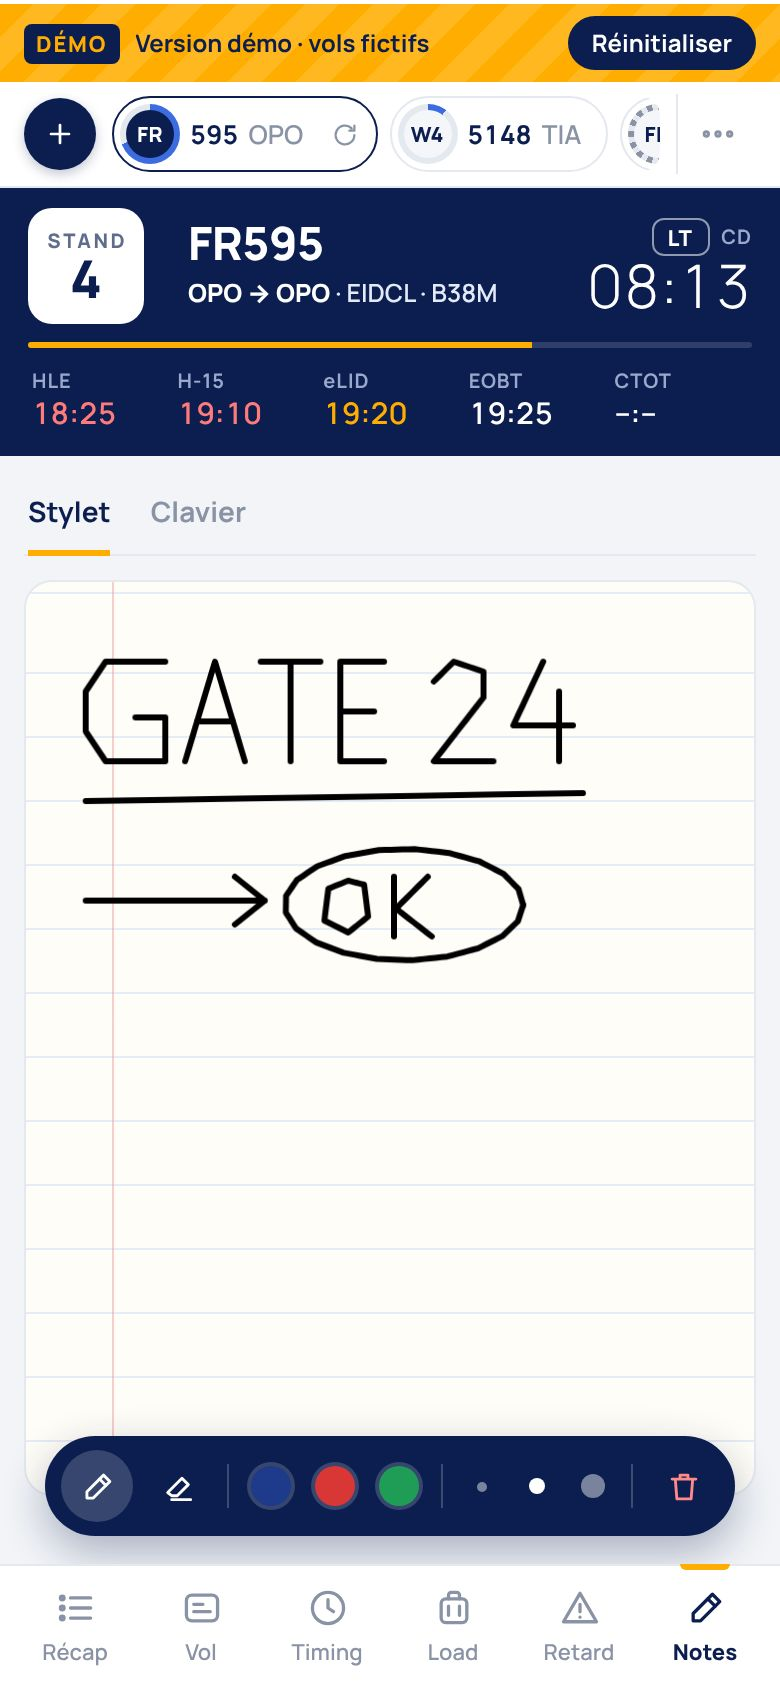
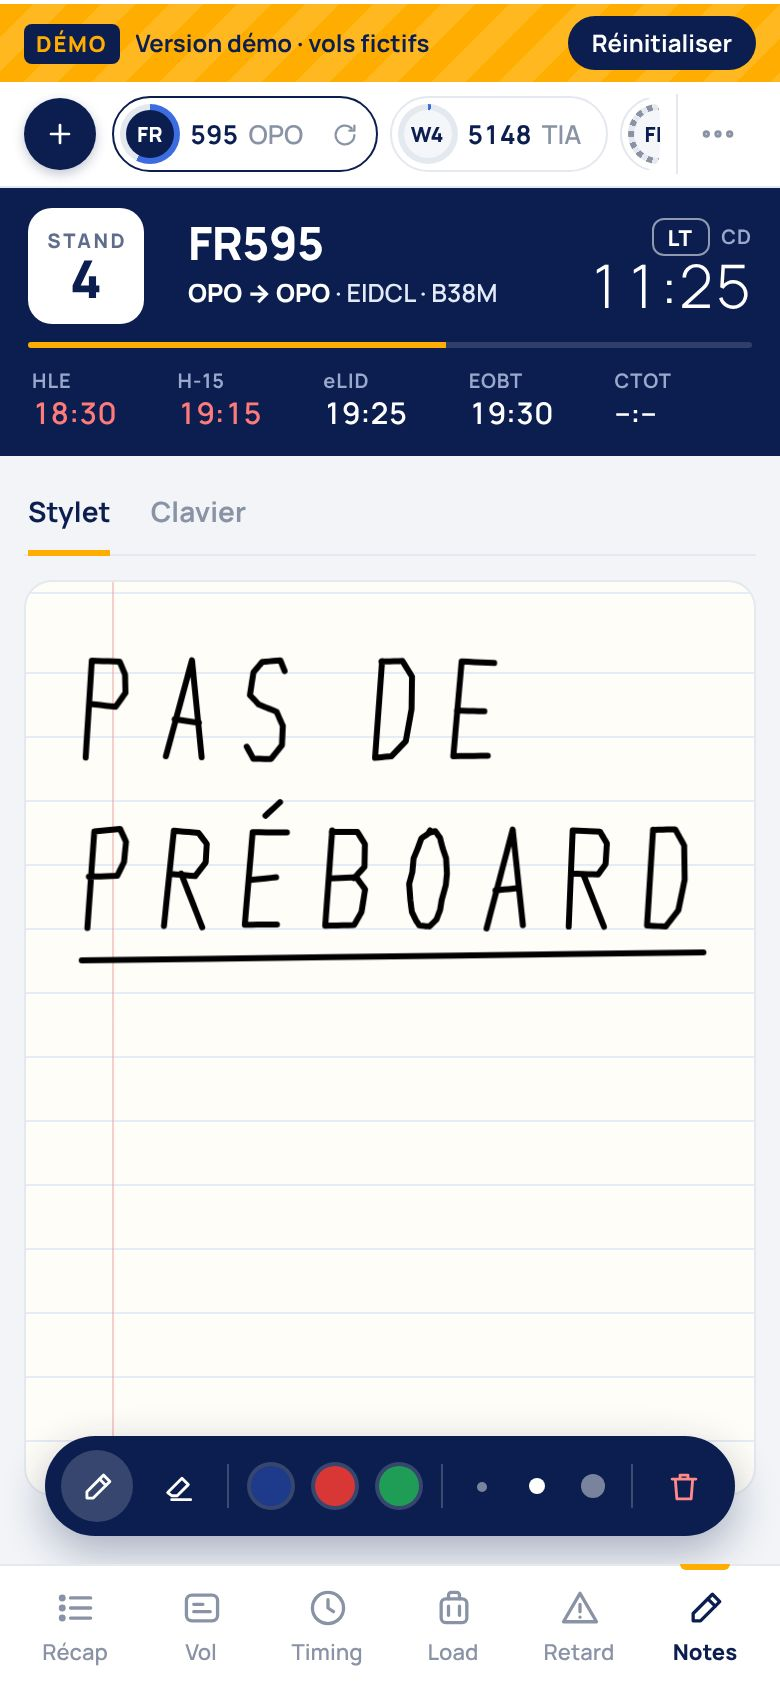
Manuel : capture Stylet « Pas de préboard »
Claude-Session: https://claude.ai/code/session_01BEmDqkNWhievWY6FKKJQpQ

diff --git a/manuel.html b/manuel.html
@@ -132,7 +132,7 @@ mark{background:var(--mark);color:inherit;border-radius:3px;padding:0 1px}
 <script>
 // Contenu du manuel : [groupe, id, titre, captures (manuel/img/*.jpg), texte HTML]
 // IMGV : à changer quand des captures sont refaites (sinon le navigateur garde les anciennes)
-const IMGV = '11';
+const IMGV = '12';
 const I = (f, c) => [f, c];
 // gros plans (captures recadrées, haute définition) affichés sous le texte de la rubrique
 const ZM = {
